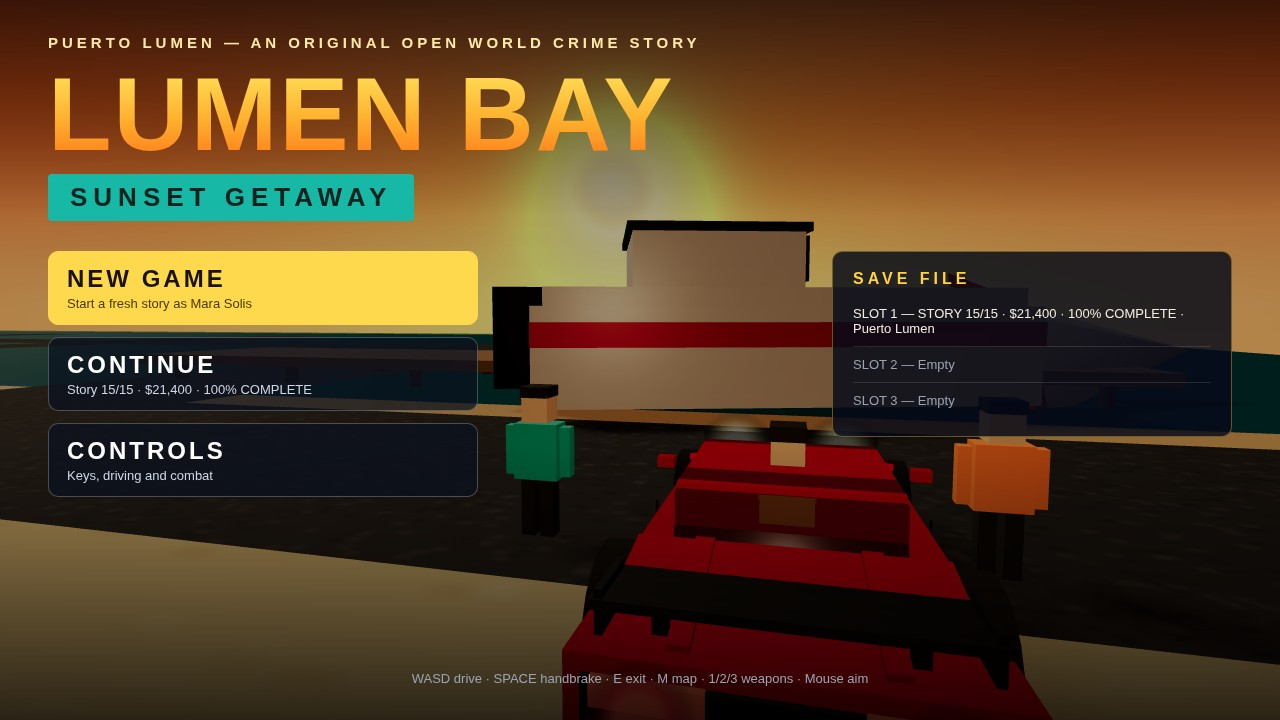
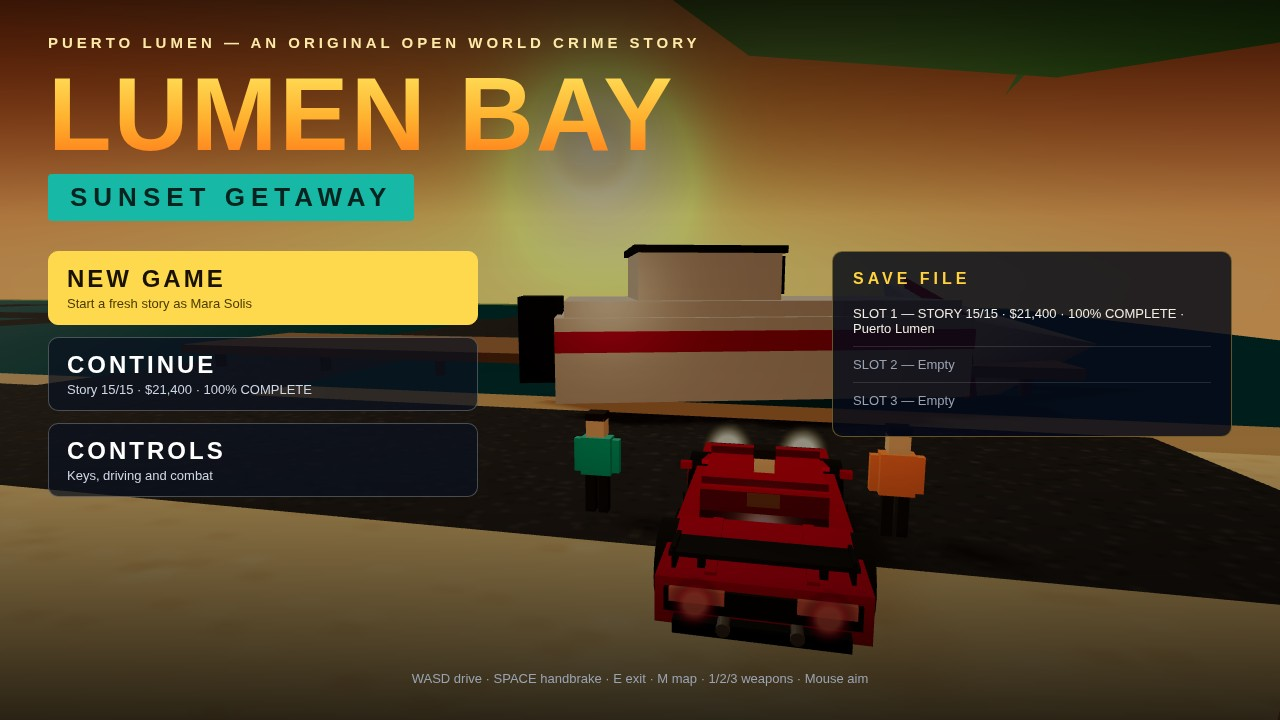
Lumen Bay shot fixes r27: tank to mid-road, title camera pullback, map label stagger
Shot 1: tank (150,223) -> (158,215), middle of the boulevard between
the cruiser rows, clear of the south-sidewalk lamp post that hid it.
Shot 4: camera (-28,3.2,228) -> (-28,5.0,224) so the whole hero car
fits in frame with margin; pullback kept short so the palm trunk just
west of the camera stays out of frame.
Shot 3: stagger the five colliding map labels with leader lines -
TORRE down, OLD TOWN up, NORTH DOCKS down, MARINA RD up clear of the
player triangle, PLAYA DR up clear of the green block.

diff --git a/game/src/hud.js b/game/src/hud.js
@@ -417,22 +417,33 @@ export class Hud {
     ctx.fillStyle = '#ffffff';
     ctx.fillText('MARINA', 505, 130);
     ctx.fillText('MERCADO VIEJO', 620, 130);
-    ctx.fillText('TORRE', 745, 130);
+    // TORRE drops a row below MERCADO VIEJO: the two ran together as
+    // one word at the same height. A leader line points back up to its row.
+    ctx.fillText('TORRE', 745, 158);
     ctx.fillText('FAROL ROJO', 905, 130);
     ctx.fillText('TALLER', 520, 310);
-    ctx.fillText('OLD TOWN', 625, 310);
+    // OLD TOWN lifts above CASINO ROW: the two ran together at the same
+    // height. A leader line points back down to its row.
+    ctx.fillText('OLD TOWN', 625, 282);
     ctx.fillText('CASINO ROW', 745, 310);
     ctx.fillText('FESTIVAL SQ', 885, 310);
     ctx.fillText('PLAYA DORADA', 445, 463);
-    ctx.fillText('NORTH DOCKS', 630, 463);
+    // NORTH DOCKS drops below PLAYA DORADA: the two ran together at the
+    // same height. A leader line points back up to its row.
+    ctx.fillText('NORTH DOCKS', 630, 491);
     ctx.fillText('DUNES', 780, 463);
     ctx.fillText('HILLSIDE', 905, 463);
     ctx.font = '12px Arial';
     ctx.fillStyle = '#c8c8c8';
     ctx.textAlign = 'center';
-    ctx.fillText('MARINA RD', 730, 92);
+    // MARINA RD lifts clear of the white player triangle that hid its tail.
+    // A leader line points back down to the road it names.
+    ctx.fillText('MARINA RD', 730, 78);
     ctx.fillText('FESTIVAL AVE', 677, 257);
-    ctx.fillText('PLAYA DR', 612, 347);
+    // PLAYA DR lifts clear of the solid green block it sat on, to just
+    // above the block's top edge. A leader line points back down to the
+    // street it names.
+    ctx.fillText('PLAYA DR', 612, 326);
     ctx.fillText('MIRAMAR STRIP', 662, 437);
     for (const street of [['OCEAN BLVD', 570], ['PALM AVE', 685], ['MERCADO ST', 765], ['CASINO AVE', 837], ['TORRE BLVD', 910]]) {
       ctx.save();
@@ -442,6 +453,17 @@ export class Hud {
       ctx.fillText(street[0], 0, 4);
       ctx.restore();
     }
+    // Short thin leader lines from each staggered label back to the place
+    // it names, so the stagger reads as a pointer and not a stray label.
+    ctx.strokeStyle = 'rgba(255,255,255,0.55)';
+    ctx.lineWidth = 1;
+    ctx.beginPath();
+    ctx.moveTo(770, 144); ctx.lineTo(770, 133); // TORRE up to its row
+    ctx.moveTo(665, 286); ctx.lineTo(665, 306); // OLD TOWN down to its row
+    ctx.moveTo(700, 477); ctx.lineTo(700, 464); // NORTH DOCKS up to its row
+    ctx.moveTo(730, 82); ctx.lineTo(730, 95); // MARINA RD down to its road
+    ctx.moveTo(612, 330); ctx.lineTo(612, 345); // PLAYA DR down to its street
+    ctx.stroke();
     ctx.strokeStyle = '#ffd23e';
     ctx.lineWidth = 3;
     ctx.setLineDash([10, 8]);

diff --git a/game/src/shots.js b/game/src/shots.js
@@ -256,12 +256,13 @@ function stageShot1(game) {
   dressPerson(game, 0xffd21c, 108, 209, WEST, true);
   dressPerson(game, 0x19c8e8, 116, 209.5, WEST, true);
 
-  // Armored tank on the south lane with a clear line of sight: south of
-  // the cruiser row, in its own open stretch of road, angled so the
-  // camera sees its long side, turret and barrel instead of looking
-  // straight down its nose. The barrel still points west at the hero,
-  // and the tank overlaps no cruiser and hides no hero car.
-  place(game, makeTank(), 150, 223, -0.97);
+  // Armored tank in the middle of the road with a clear line of sight:
+  // forward of the south sidewalk and its lamp posts, centred on the
+  // boulevard between the two cruiser rows, angled so the camera sees
+  // its long side, turret and barrel instead of looking straight down
+  // its nose. The barrel still points west at the hero, and the tank
+  // overlaps no cruiser and hides no hero car.
+  place(game, makeTank(), 158, 215, -0.97);
 
   // Three people on the south sidewalk, unchanged: pink, green, purple.
   dressPerson(game, 0xff5a8a, 108, 225, 0, false);
@@ -383,8 +384,15 @@ const HUD_PANELS = [
 function stageShot4(game) {
   beginShot(game, 4, { x: -28, z: 235, heading: 0, job: 14 });
   const camera = game.render.camera;
-  camera.position.set(-28, 3.2, 228);
-  camera.lookAt(-22, 1.5, 252);
+  // Pulled back and raised so the whole hero car, front bumper to rear,
+  // fits inside the frame with a margin of empty road around it: the car
+  // used to sit so close to the lens that its front ran off the bottom
+  // edge. The pullback is kept short on purpose — any further back and
+  // the palm trunk just west of the camera crowds into the right of the
+  // frame and hides the orange ally. The boat stays centre frame and
+  // the allies still flank the car.
+  camera.position.set(-28, 5.0, 224);
+  camera.lookAt(-22, 1.2, 252);
 
   // Speedboat, big and centre frame, turned slightly.
   const boat = makeBoat();
